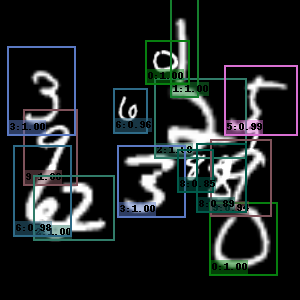
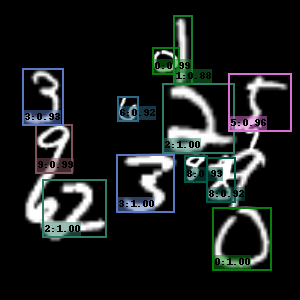
Added config file for improved ssd model, and changes train and detector to check for improved or basic, added results and plots

Changed region(s): [[0.0, 0.0, 1.0, 0.93]]

diff --git a/assignment4/SSD/train.py b/assignment4/SSD/train.py
@@ -35,19 +35,34 @@ def start_train(cfg):
     model = SSDDetector(cfg)
     model = torch_utils.to_cuda(model)
 
+    
+    backbone_name = cfg.MODEL.BACKBONE.NAME
+    if backbone_name == "basic":
+        optimizer = torch.optim.SGD(
+            model.parameters(),
+            lr=cfg.SOLVER.LR,
+            momentum=cfg.SOLVER.MOMENTUM,
+            weight_decay=cfg.SOLVER.WEIGHT_DECAY
+        )
+    if backbone_name == "basicimproved":
+        optimizer = torch.optim.Adam(
+            model.parameters(),
+            lr=cfg.SOLVER.LR,
+            weight_decay=cfg.SOLVER.WEIGHT_DECAY
+        )
     """
     optimizer = torch.optim.SGD(
         model.parameters(),
         lr=cfg.SOLVER.LR,
         momentum=cfg.SOLVER.MOMENTUM,
         weight_decay=cfg.SOLVER.WEIGHT_DECAY
-    )"""
+    )
     
     optimizer = torch.optim.Adam(
         model.parameters(),
         lr=cfg.SOLVER.LR,
         weight_decay=cfg.SOLVER.WEIGHT_DECAY
-    )
+    )"""
 
 
     arguments = {"iteration": 0}

diff --git a/assignment4/SSD/ssd/modeling/detector.py b/assignment4/SSD/ssd/modeling/detector.py
@@ -31,6 +31,9 @@ class SSDDetector(nn.Module):
 def build_backbone(cfg):
     backbone_name = cfg.MODEL.BACKBONE.NAME
     if backbone_name == "basic":
+        model = BasicModel(cfg)
+        return model
+    if backbone_name == "basicimproved":
         model = BasicImprovedModel(cfg)
         return model
     if backbone_name == "vgg":
